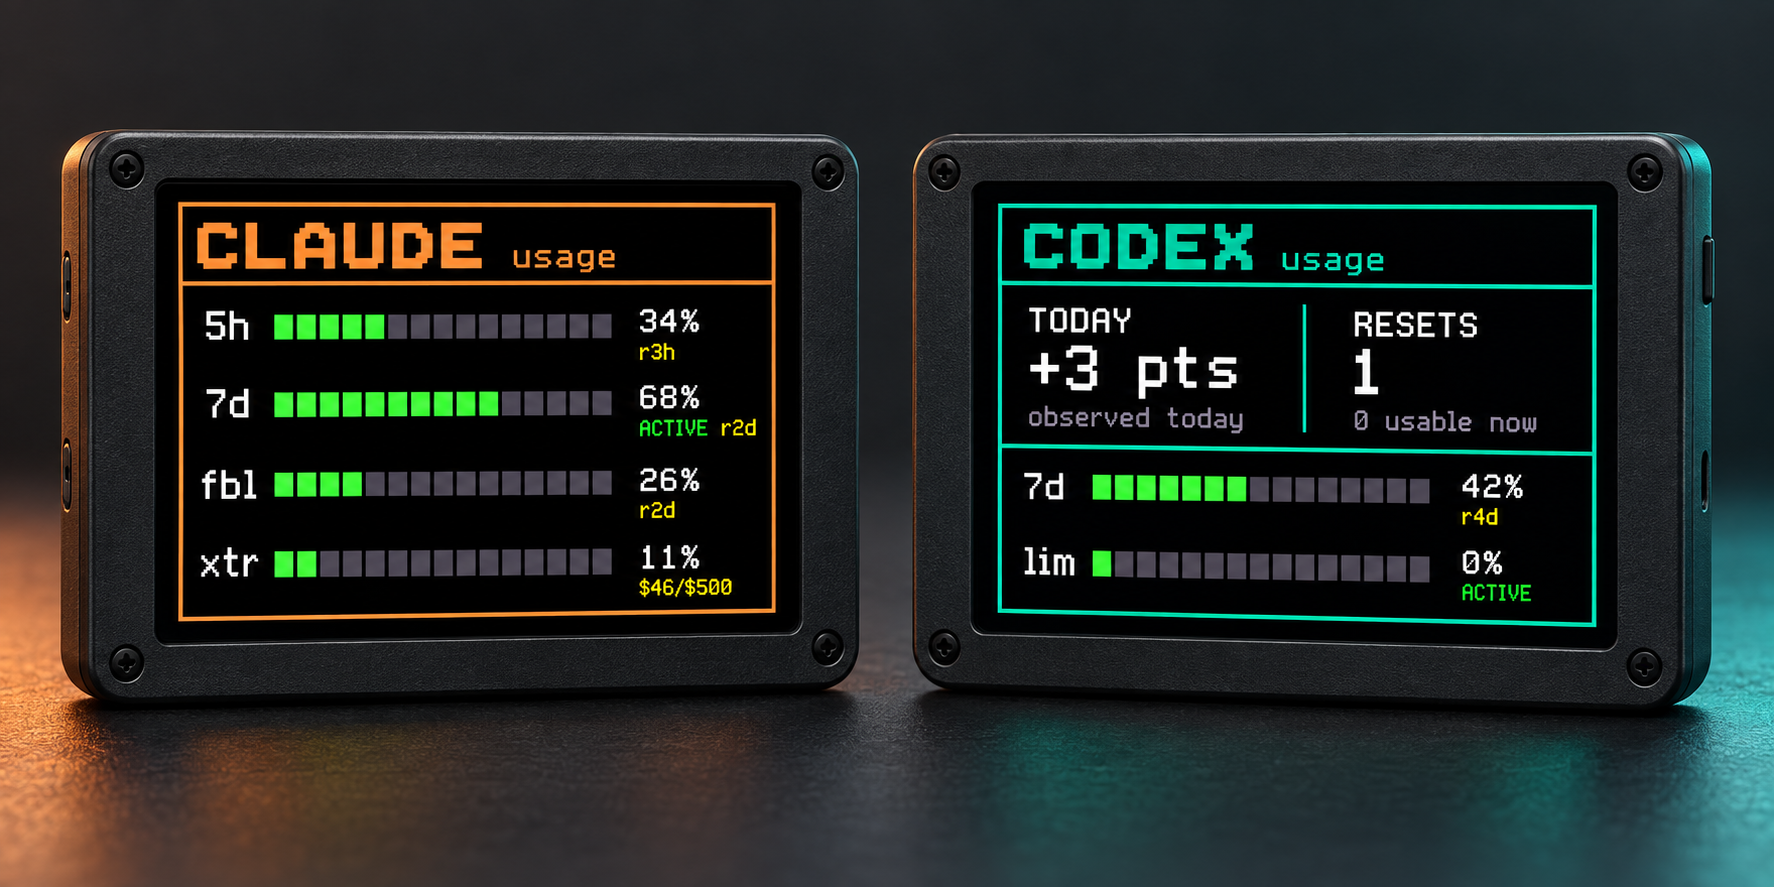
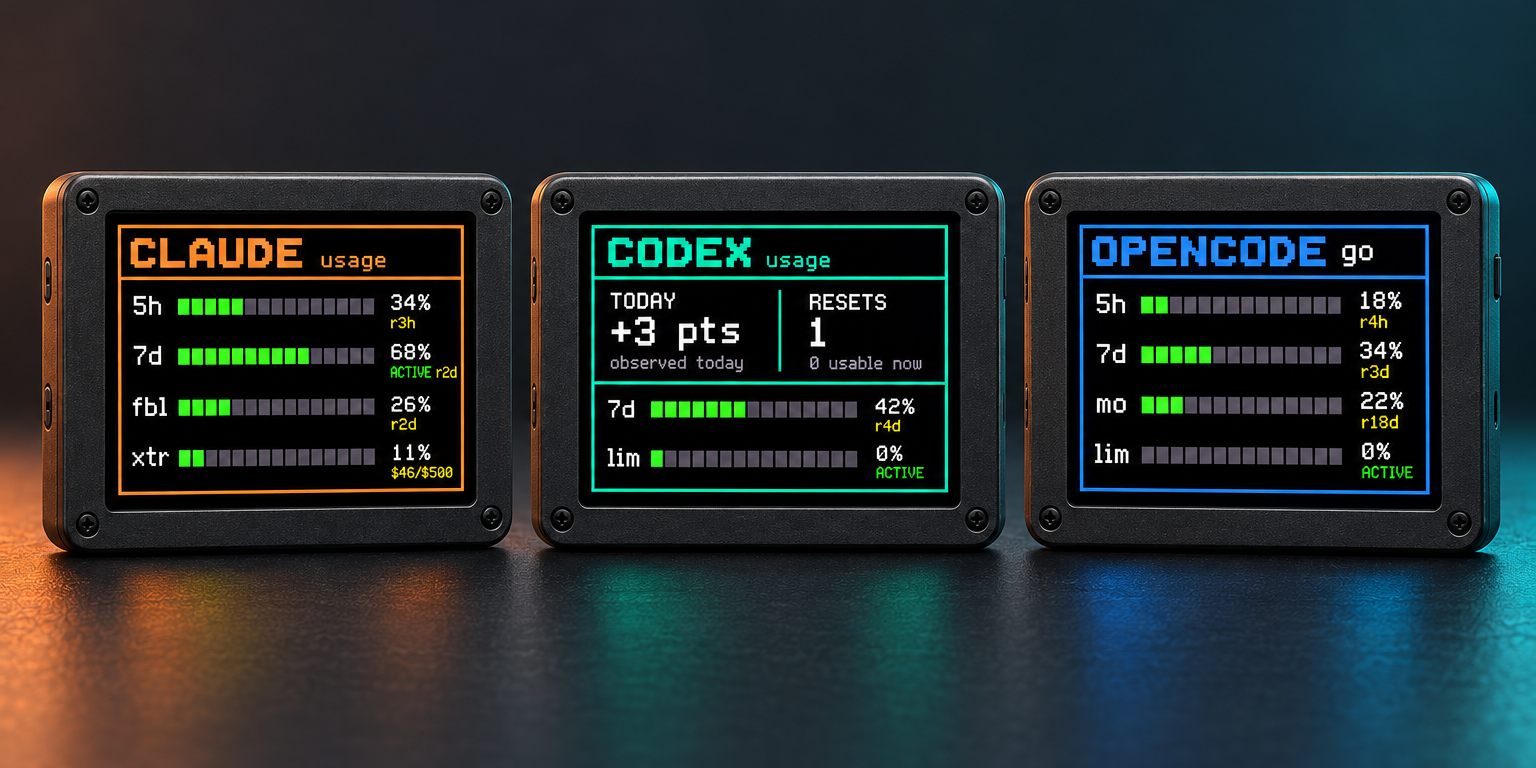
docs: update hero image to show Claude, Codex, and OpenCode Go

diff --git a/README.md b/README.md
@@ -3,7 +3,7 @@
 A tiny always-on dashboard for Claude Code, Codex, and OpenCode Go usage, built
 for the [Adafruit PyPortal](https://www.adafruit.com/product/4116).
 
-![Two PyPortal devices showing Claude and Codex usage](docs/mockups/pyportal-ai-usage-hero.png)
+![Three PyPortal devices showing Claude, Codex, and OpenCode Go usage](docs/mockups/pyportal-ai-usage-hero.png)
 
 The dashboard cycles between configured provider views and shows the limits
 available for each account: short-term, weekly, and monthly utilization, reset
